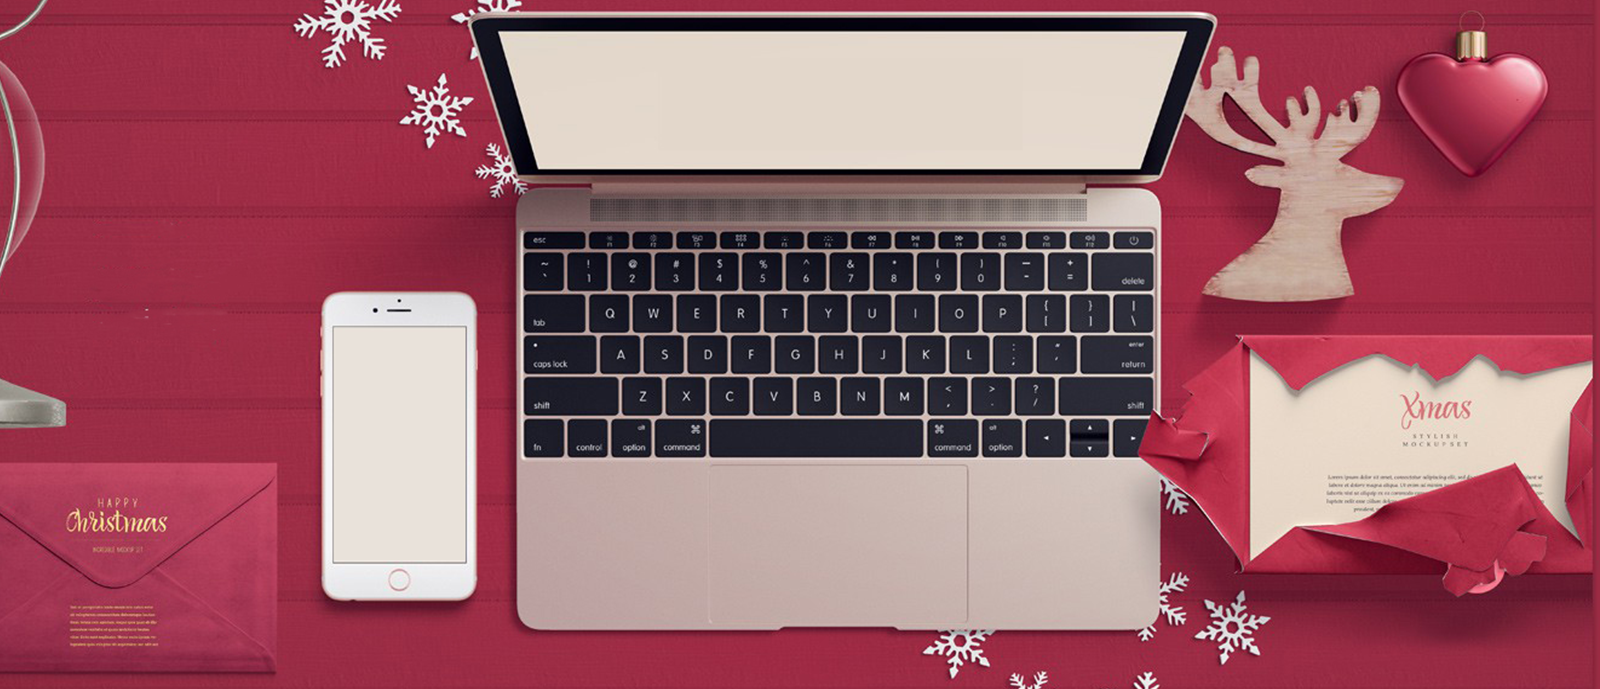
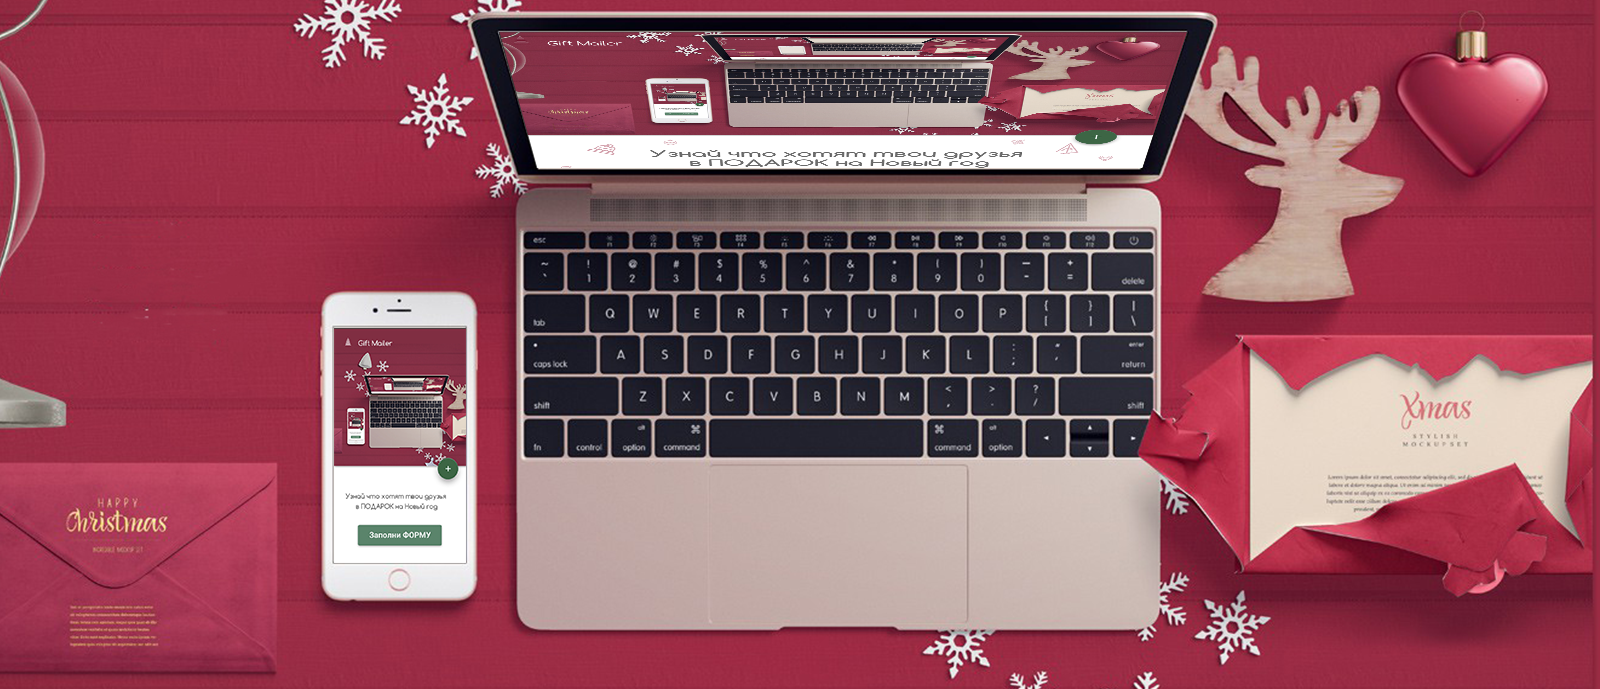
Create letter

Changed region(s): [[0.3125, 0.0305, 0.75, 0.2438], [0.1875, 0.4572, 0.3125, 0.8229]]

diff --git a/build/pages/email-asks.html b/build/pages/email-asks.html
@@ -1,0 +1,1 @@
+<!DOCTYPE html><head><meta charset="UTF-8"></head><body style="margin:0;"><table cellspacing="0" cellpadding="0" style="width: 100%; font-family: Open Sans, arial, serif; font-size: 16px; line-height: 1.3; color: #999999; background-color: #eeeeee"><tbody><tr><td><img src="../../src/images/header__email--blue.png" width="100%" style="margin-bottom: 60px;"><table cellspacing="0" cellpadding="0" style="width: 100%; padding:0 80px; margin-bottom:30px;"><tbody><tr><td style="padding: 50px; background: url(../../src/images/letter__email.png) #ffffff no-repeat top right; box-shadow: 2px 2px 9px -1px rgba(0,0,0,0.18);"><p style="color: #000000; font-size: 24px;">Привет, Дима</p><span style="font-size: 18px;"> С Наступающими Праздниками, твой друг интересуется что ты хочешь<br>получить в подарок на Новый год.<br>И передает поздравление с праздниками!</span><div style="margin-top: 40px; text-align:center"><a href="#" style="background-color: #267a5a; color:#fff; text-transform: uppercase; text-decoration: none; font-size: 16px; padding:15px 30px; border-radius: 6px">Отправить пожелание</a></div></td></tr><tr><td><div style="margin-top: 40px; text-align:center"><a href="#" style="display:inline-block; margin-right: 50px"><img src="../../src/images/fb__share.png"></a><a href="#" style="display:inline-block;"><img src="../../src/images/vk__share.png"></a></div></td></tr></tbody></table></td></tr></tbody></table></body>
